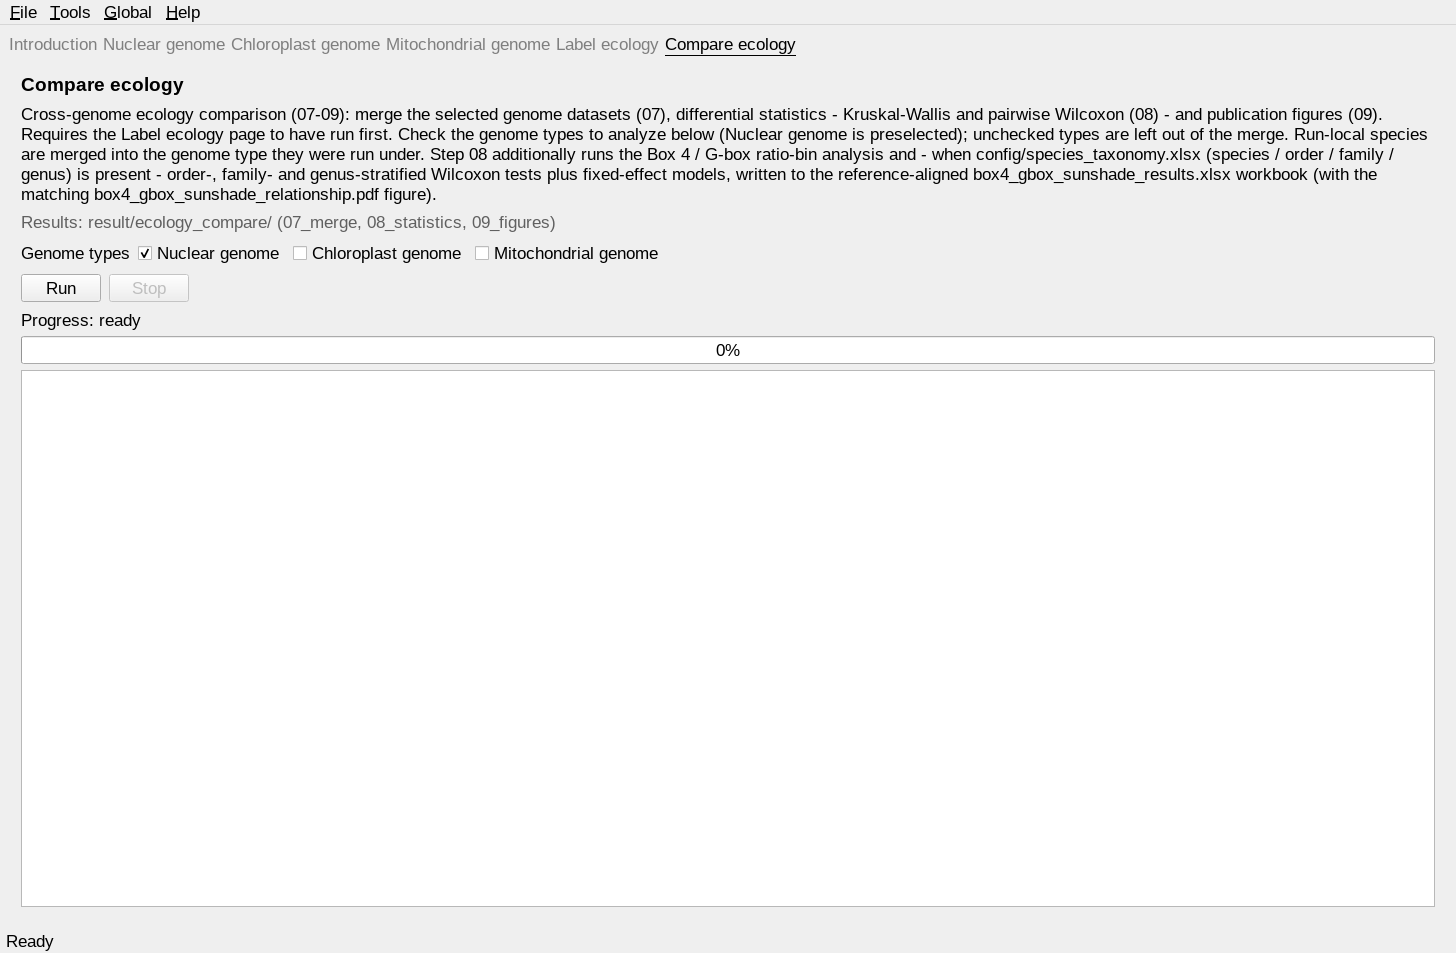
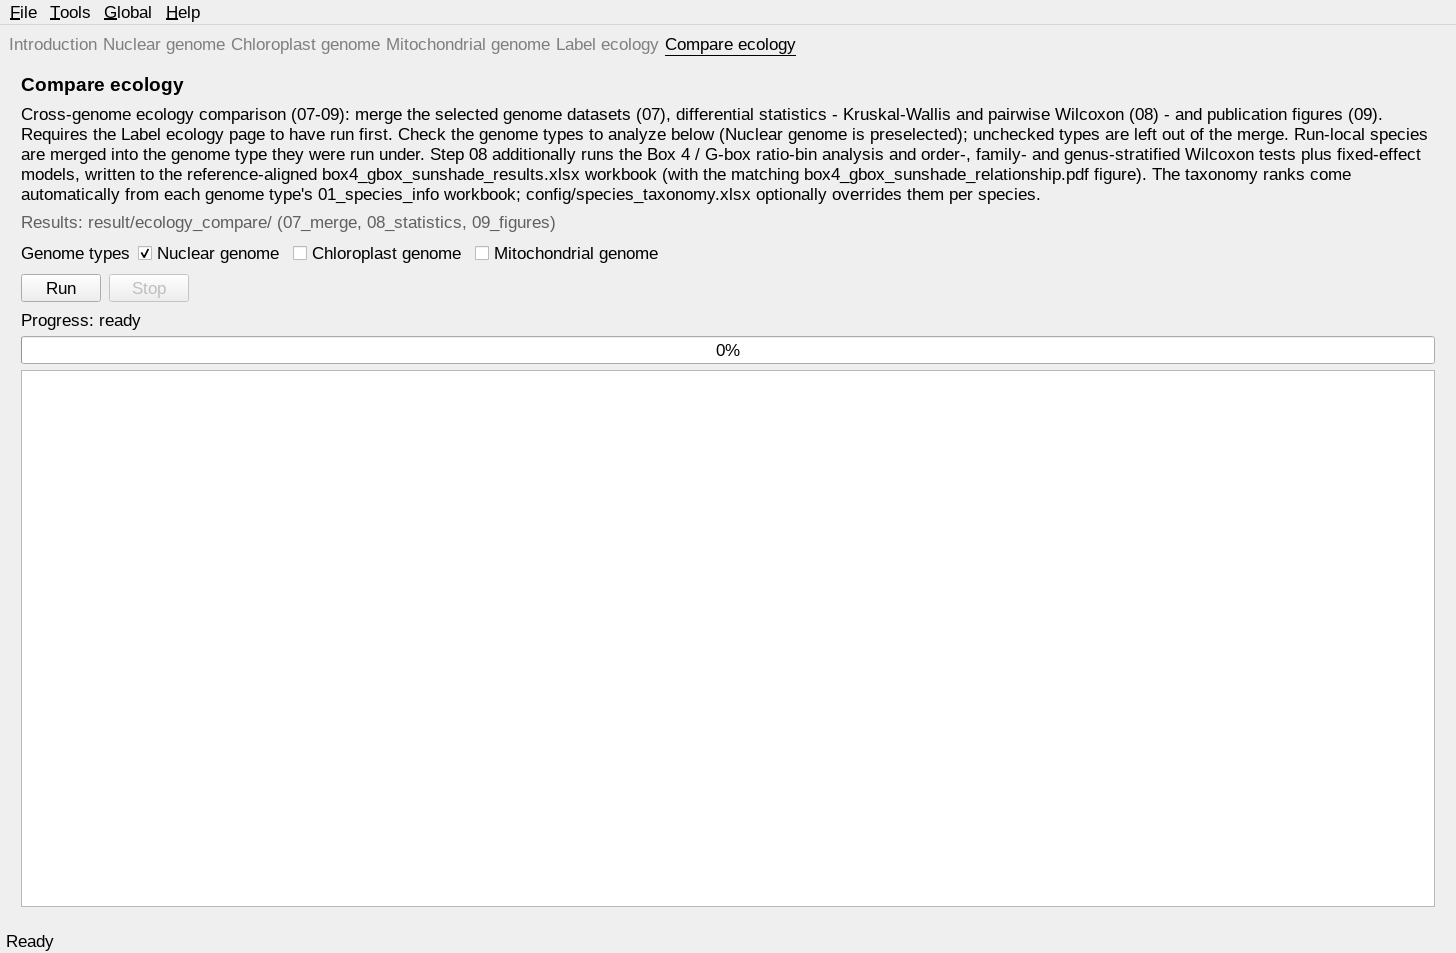
docs: v1.9.0 taxonomy strata auto-read from step-01 species info

Changed region(s): [[0.0, 0.1522, 0.989, 0.213]]

diff --git a/docs/conf.py b/docs/conf.py
@@ -9,8 +9,8 @@ author = "sunshadeCisseeker developers"
 copyright = "2026, sunshadeCisseeker developers"
 
 # The short X.Y version and the full release version.
-version = "v1.8.0"
-release = "v1.8.0"
+version = "v1.9.0"
+release = "v1.9.0"
 
 extensions = [
     "sphinx.ext.autosectionlabel",

diff --git a/docs/content/Ecology comparison.rst b/docs/content/Ecology comparison.rst
@@ -164,7 +164,9 @@ writes a second, reference-aligned workbook
 ``result/ecology_compare/08_statistics/box4_gbox_sunshade_results.xlsx``
 with the same sheet layout as ``chromosome_promoter_Box4_Gbox_sunshade
 _results.xlsx`` (one extra leading ``genome_type`` column, and species
-matched by name instead of NCBI ``tax_id``):
+matched by name against the per-type ``01_species_info`` NCBI taxonomy
+instead of NCBI ``tax_id`` — ``config/species_taxonomy.xlsx`` optionally
+overrides per species):
 
 * ``Species_annotated`` — per genome type × species: Box 4 / G-box counts,
   gene counts, ratio, log10 ratio, ratio status, ratio bin, total, the
@@ -180,8 +182,9 @@ matched by name instead of NCBI ``tax_id``):
   correlation and the ratio-bin chi-square test, plus the fixed-effect
   model rows;
 * ``Order_stratified_tests`` / ``Family_stratified_tests`` /
-  ``Genus_stratified_tests`` — within-rank Wilcoxon tests (needs
-  ``config/species_taxonomy.xlsx``);
+  ``Genus_stratified_tests`` — within-rank Wilcoxon tests (taxonomy comes
+  automatically from each type's ``01_species_info`` workbook; the optional
+  ``config/species_taxonomy.xlsx`` overrides per species);
 * ``Fixed_effect_models`` — ``log10(ratio) ~ sunshade + order/family/genus``
   linear models adjusting for taxonomic structure;
 * ``Family_summary`` / ``Genus_summary`` — order/family- and genus-level
@@ -203,11 +206,13 @@ bins (``0``, ``0-0.5``, ``0.5-1``, ``1-2``, ``2-5``, ``5-10``, ``10-15``,
 *distribution* level: chi-square contingency tests (all groups and
 sun-vs-shade), per-bin Fisher bin-vs-rest tests with BH correction,
 percentages, odds ratios and sun/shade concentration ranking, plus a
-Spearman trend test. Drop ``config/species_taxonomy.xlsx`` (``species`` /
-``order`` / ``family`` / ``genus`` columns; optional ``kingdom`` /
-``phylum`` / ``tax_class``) next to the other configs to also get
-within-order / within-family / **within-genus** Wilcoxon tests and
-fixed-effect linear models adjusting for taxonomic structure.
+Spearman trend test. The taxonomic strata for the within-order /
+within-family / **within-genus** Wilcoxon tests and the fixed-effect linear
+models come automatically from each genome type's ``01_species_info``
+workbook (``species_summary`` sheet); an optional
+``config/species_taxonomy.xlsx`` (``species`` / ``order`` / ``family`` /
+``genus`` columns; optional ``kingdom`` / ``phylum`` / ``tax_class``)
+overrides or supplements them per species.
 
 Interpreting the results
 ------------------------

diff --git a/docs/content/Configuration.rst b/docs/content/Configuration.rst
@@ -77,17 +77,24 @@ labeling step. Only species listed here enter the ecology comparison (steps
 07–09); unlabelled species still appear in the general analysis (steps
 01–06).
 
-``config/species_taxonomy.xlsx`` (optional; taxonomic strata, v1.8.0)
-----------------------------------------------------------------------
+``config/species_taxonomy.xlsx`` (optional override; taxonomy strata v1.8.0, automatic since v1.9.0)
+------------------------------------------------------------------------------------------------------
 
-Drop this file next to the other configs to make the Compare ecology
-Box 4/G-box analysis additionally test the sun/shade signal **within
-taxonomic strata** and with **fixed-effect models** — the reference-aligned
+Compare ecology reads the taxonomy for the order/family/genus strata
+**automatically** from each genome type's step-01 workbook —
+``result/<type>/01_species_info/<short>_info.xlsx``, ``species_summary``
+sheet (the NCBI kingdom/phylum/class/order/family/genus that step 01
+fetched). Nothing needs to be provided.
+
+``config/species_taxonomy.xlsx`` is the **manual override/supplement**: its
+rows win over the 01_species_info rows for the same species, and it is the
+only source for species step 01 never saw (Run-local or manually placed
+custom genomes). The strata feed the reference-aligned
 ``box4_gbox_sunshade_results.xlsx`` sheets ``Order_stratified_tests`` /
 ``Family_stratified_tests`` / ``Genus_stratified_tests`` /
 ``Fixed_effect_models`` / ``Family_summary`` / ``Genus_summary`` and the
-``box4_gbox_sunshade_relationship.pdf`` panels i/j/k. Without the file those
-analyses are skipped.
+``box4_gbox_sunshade_relationship.pdf`` panels i/j/k; without any taxonomy
+those analyses are skipped.
 
 .. list-table::
    :header-rows: 1
@@ -112,7 +119,7 @@ analyses are skipped.
      - higher ranks; reported in ``Species_annotated`` when present
 
 Species are matched by name (the chromosome pipeline matches by NCBI
-``tax_id``); a species missing from the table is marked ``unmatched`` and
+``tax_id``); a species present in neither source is marked ``unmatched`` and
 stays out of the strata tests. Within-stratum Wilcoxon tests need ≥ 2 sun
 AND ≥ 2 shade species in a stratum; fixed-effect models need ≥ 6 labeled
 species with at least two strata — everything else is listed as

diff --git a/docs/content/Outputs.rst b/docs/content/Outputs.rst
@@ -48,7 +48,7 @@ Ecology comparison outputs
    * - ``result/ecology_compare/09_figures/box4_gbox_ratio.pdf``
      - portrait A4 multi-panel figure for the light-response hypothesis (ratio distributions, count balance, ratio-bin composition/enrichment, concentrated bins, raw bin count difference, optional order/family-stratified tests)
    * - ``result/ecology_compare/08_statistics/box4_gbox_sunshade_results.xlsx`` (v1.8.0)
-     - reference-aligned Box 4/G-box × sun/shade workbook (same layout as the in-house chromosome pipeline's ``chromosome_promoter_Box4_Gbox_sunshade_results.xlsx``, one ``genome_type`` column added): ``Species_annotated`` / ``Label_summary`` / ``Ratio_bin_by_label`` / ``Ratio_bin_enrichment`` / ``Concentrated_ratio_bins`` / ``Relationship_tests`` / ``Order_stratified_tests`` / ``Family_stratified_tests`` / ``Genus_stratified_tests`` / ``Fixed_effect_models`` / ``Family_summary`` / ``Genus_summary`` / ``Input_audit``
+     - reference-aligned Box 4/G-box × sun/shade workbook (same layout as the in-house chromosome pipeline's ``chromosome_promoter_Box4_Gbox_sunshade_results.xlsx``, one ``genome_type`` column added): ``Species_annotated`` / ``Label_summary`` / ``Ratio_bin_by_label`` / ``Ratio_bin_enrichment`` / ``Concentrated_ratio_bins`` / ``Relationship_tests`` / ``Order_stratified_tests`` / ``Family_stratified_tests`` / ``Genus_stratified_tests`` / ``Fixed_effect_models`` / ``Family_summary`` / ``Genus_summary`` / ``Input_audit``. The taxonomy ranks come automatically from each type's ``01_species_info`` workbook (v1.9.0); ``config/species_taxonomy.xlsx`` optionally overrides per species
    * - ``result/ecology_compare/08_statistics/box4_gbox_sunshade_species_annotated.tsv`` (v1.8.0)
      - the annotated species table (Box 4 / G-box counts, ratio, ratio bin + sun/shade label + taxonomy ranks) as a flat TSV
    * - ``result/ecology_compare/09_figures/box4_gbox_sunshade_relationship.pdf`` (v1.8.0)

diff --git a/docs/content/Changelog.rst b/docs/content/Changelog.rst
@@ -1,6 +1,25 @@
 Changelog
 =========
 
+1.9.0 — order/family/genus taxonomy is read automatically from step 01
+-------------------------------------------------------------------------
+
+* The taxonomic strata of the reference-aligned Box 4/G-box comparison no
+  longer need a config file: Compare ecology reads the NCBI taxonomy
+  (kingdom / phylum / class / order / family / genus) automatically from
+  each genome type's own step-01 workbook
+  (``result/<type>/01_species_info/<short>_info.xlsx``,
+  ``species_summary`` sheet). ``config/species_taxonomy.xlsx`` is now an
+  optional **override/supplement**: its rows win over the 01_species_info
+  rows for the same species, and it remains the only source for species
+  step 01 never saw (Run-local or manually placed custom genomes). The
+  workbook's ``Input_audit`` sheet records both row counts
+  (``taxonomy_config_rows`` / ``taxonomy_ncbi_01_rows``).
+* The ecology end-to-end suite now stages per-type 01_species_info
+  workbooks, proves the automatic strata still run (order/family/genus
+  tested + fixed-effect models fit) and proves the config override wins
+  for a single species.
+
 1.8.0 — Compare ecology mirrors the chromosome Box 4/G-box × sun/shade pipeline
 -------------------------------------------------------------------------------
 

diff --git a/docs/content/About sunshadeCisseeker.rst b/docs/content/About sunshadeCisseeker.rst
@@ -4,7 +4,7 @@ About sunshadeCisseeker
 sunshadeCisseeker identifies, annotates and compares promoter
 cis-regulatory elements across sun / shade plants.
 
-The current release is **1.8.0**.
+The current release is **1.9.0**.
 
 Highlights
 ----------
